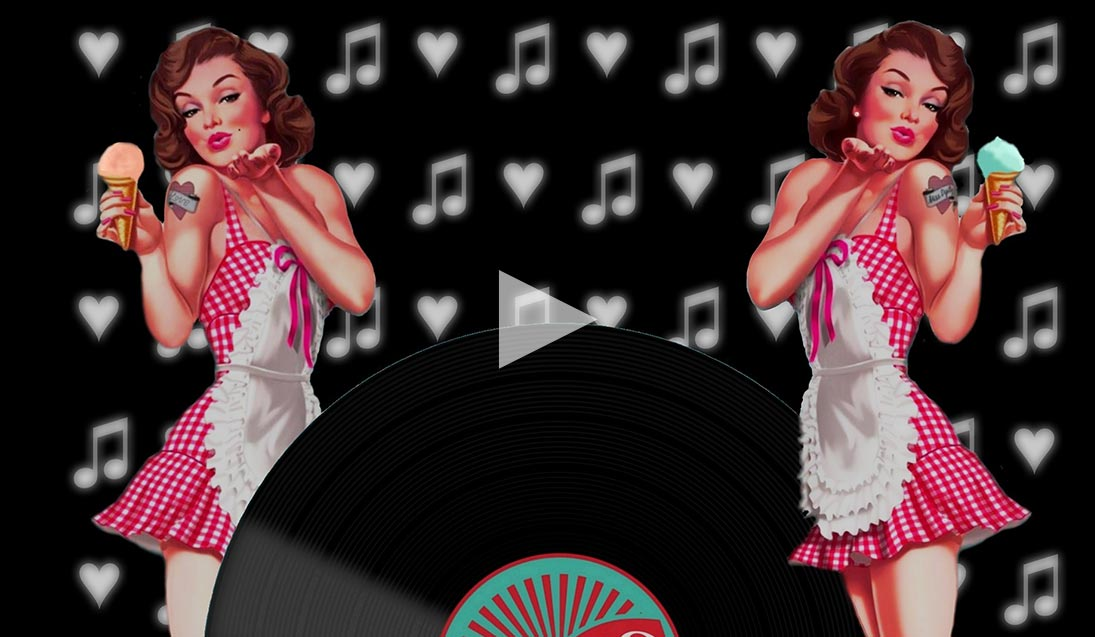
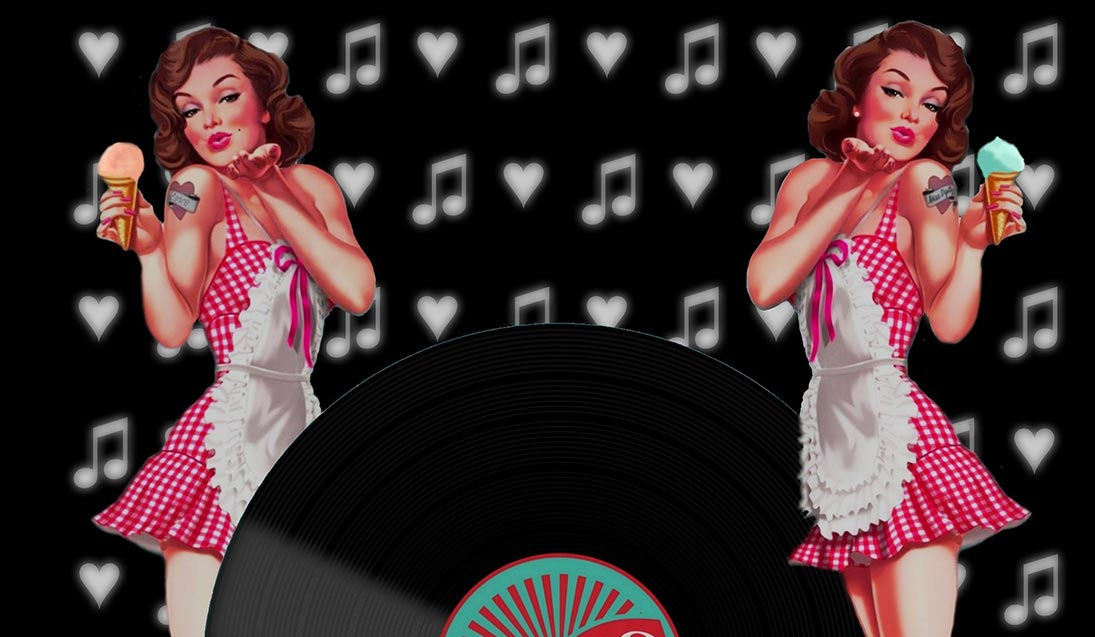
final

Changed region(s): [[0.4347, 0.4176, 0.5589, 0.5667]]

diff --git a/index.html b/index.html
@@ -101,13 +101,13 @@
         <div class="video container">
             <div class="row">
                 <div class="col-md-10 offset-1 video__img">
-                    <img src="img/video2.jpg" alt="">
+                    <img src="img/video.jpg" alt="">
                 </div>
                 <div class="col-md-10 offset-1 video__movie">
                     <video width="100%" height="auto" controls="controls" poster="img/video.jpg">
-                        <!--<source src="video/showbar.mp4" type='video/ogg; codecs="theora, vorbis"'>-->
                         <source src="video/showbar.mp4" type='video/mp4; codecs="avc1.42E01E, mp4a.40.2"'>
-                        <!--<source src="video/showbar.mp4" type='video/webm; codecs="vp8, vorbis"'>-->
+                        <source src="video/showbar.mp4" type='video/ogg; codecs="theora, vorbis"'>
+                        <source src="video/showbar.mp4" type='video/webm; codecs="vp8, vorbis"'>
                         Тег video не поддерживается вашим браузером.
                     </video>
                 </div>

diff --git a/main.js b/main.js
@@ -1,3 +1,4 @@
+//map
 var latlng = new google.maps.LatLng("49.8477176", "24.0280952");
 var myOptions = {
     zoom: 17,
@@ -32,15 +33,16 @@ locations.forEach( function( element ) {
 });
 
 var footer = document.querySelector('.footer__map');
-var map = document.querySelector('.map');
+var maps = document.querySelector('.map');
 
 footer.addEventListener('mouseover', function () {
-    map.style.transform = 'translateY(0)';
+    maps.style.transform = 'translateY(0)';
 });
 footer.addEventListener('mouseout', function () {
-    map.style.transform = ''
+    maps.style.transform = ''
 });
 
+//video
 var videoImg = document.querySelector('.video__img');
 var img = document.querySelector('.video__img img');
 var videoMovie = document.querySelector('.video__movie');
@@ -55,7 +57,7 @@ videoImg.addEventListener('click', function () {
     video.play();
 });
 
-videoMovie.addEventListener('click', function (e) {
+videoMovie.addEventListener('click', function () {
     videoImg.style.display = 'block';
     video.pause();
     videoMovie.style.display = 'none';

diff --git a/less/header.less b/less/header.less
@@ -1,5 +1,6 @@
 .header{
   overflow: hidden;
+  letter-spacing: 0.05em;
 }
 .header__banner{
   padding-right: 0;
@@ -33,7 +34,8 @@
 .header h1 .md{
   font-size: 100px;
   line-height: 140px;
-  letter-spacing: -.03em;
+  width: 106%;
+  display: block;
 }
 .header h1 .lg{
   font-size: 110px;
@@ -96,6 +98,7 @@
     font-size: 60px;
     line-height: 75px;
     display: block;
+    width: 100%;
   }
   .header h1 .lg{
     font-size: 70px;

diff --git a/less/style.less b/less/style.less
@@ -1,8 +1,8 @@
-@import "header.css";
-@import "crazyMenu.css";
-@import "about.css";
-@import "footer.css";
-@import "video.css";
+@import "header.less";
+@import "crazyMenu.less";
+@import "about.less";
+@import "footer.less";
+@import "video.less";
 
 body{
   background: #000 url("../img/body-bg.jpg") no-repeat center top;

diff --git a/less/crazyMenu.less b/less/crazyMenu.less
@@ -53,6 +53,7 @@
 @media (min-width: 320px) and (max-width: 767px){
   .crazyMenu__title{
     margin-bottom: 20px;
+    font-size: 45px;
   }
 }
 @media (min-width: 768px) and (max-width: 1000px){
